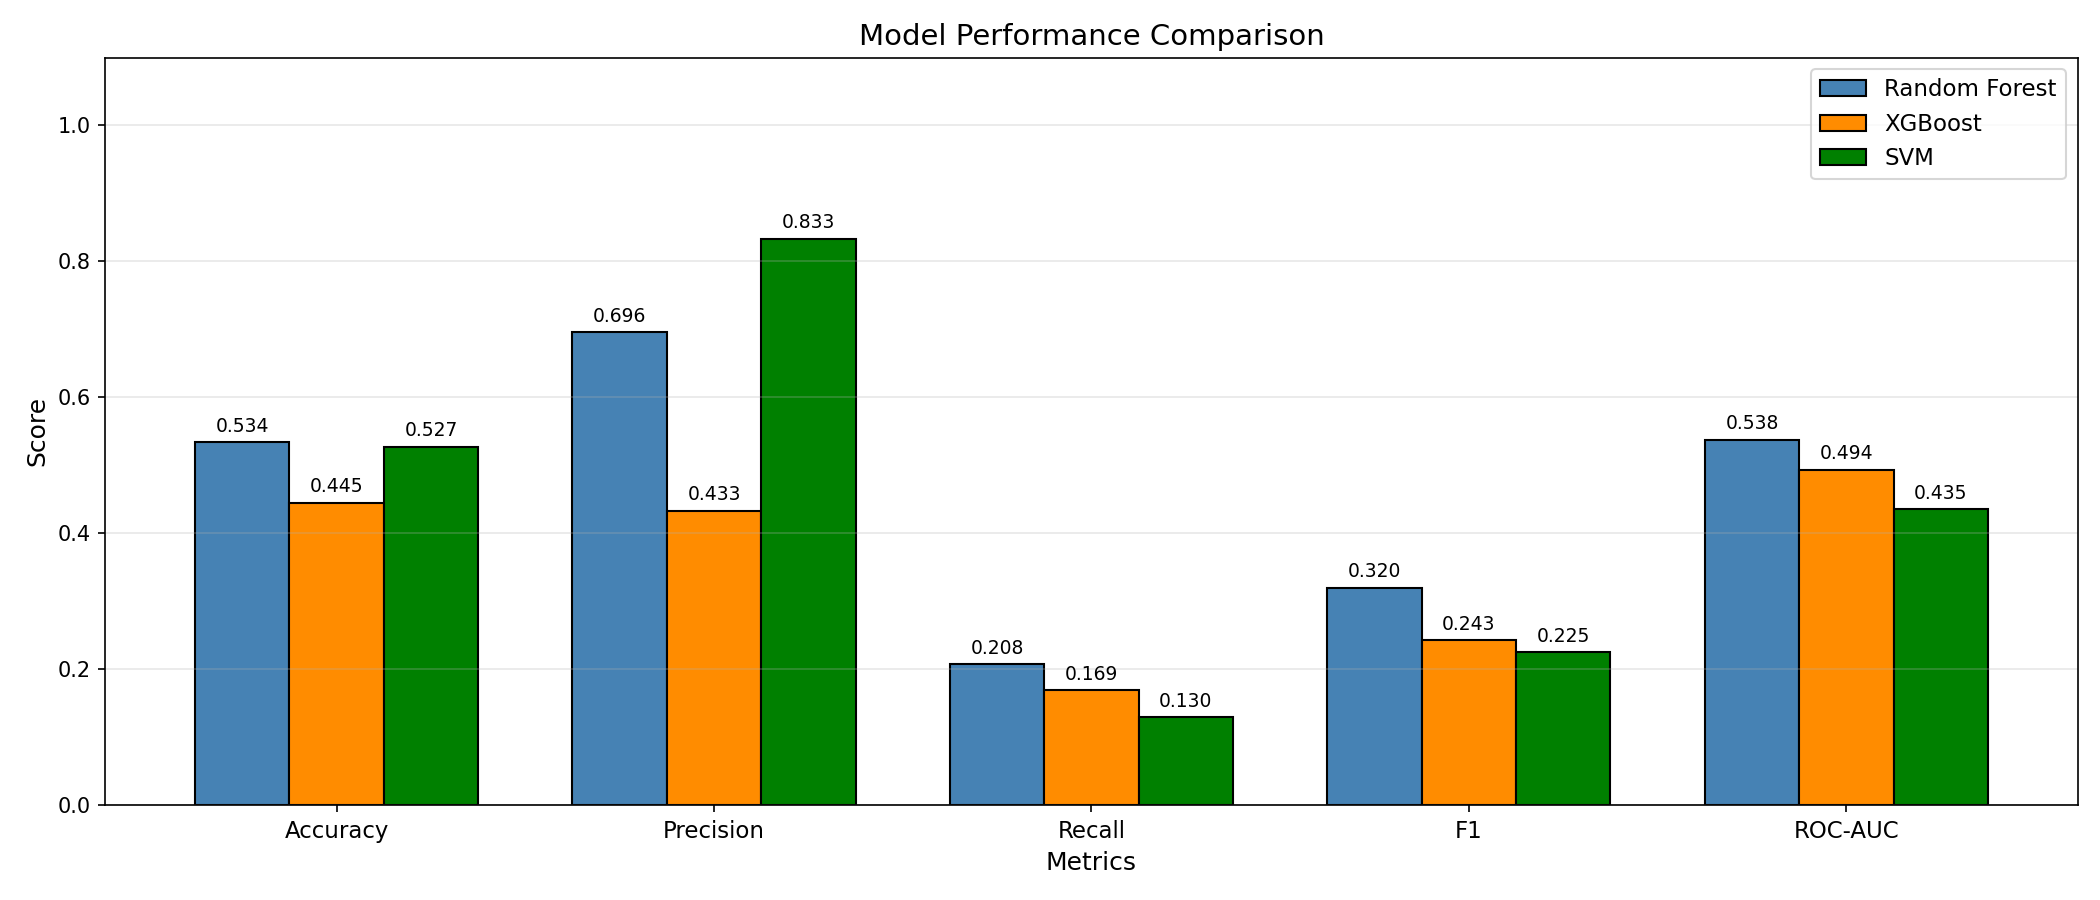
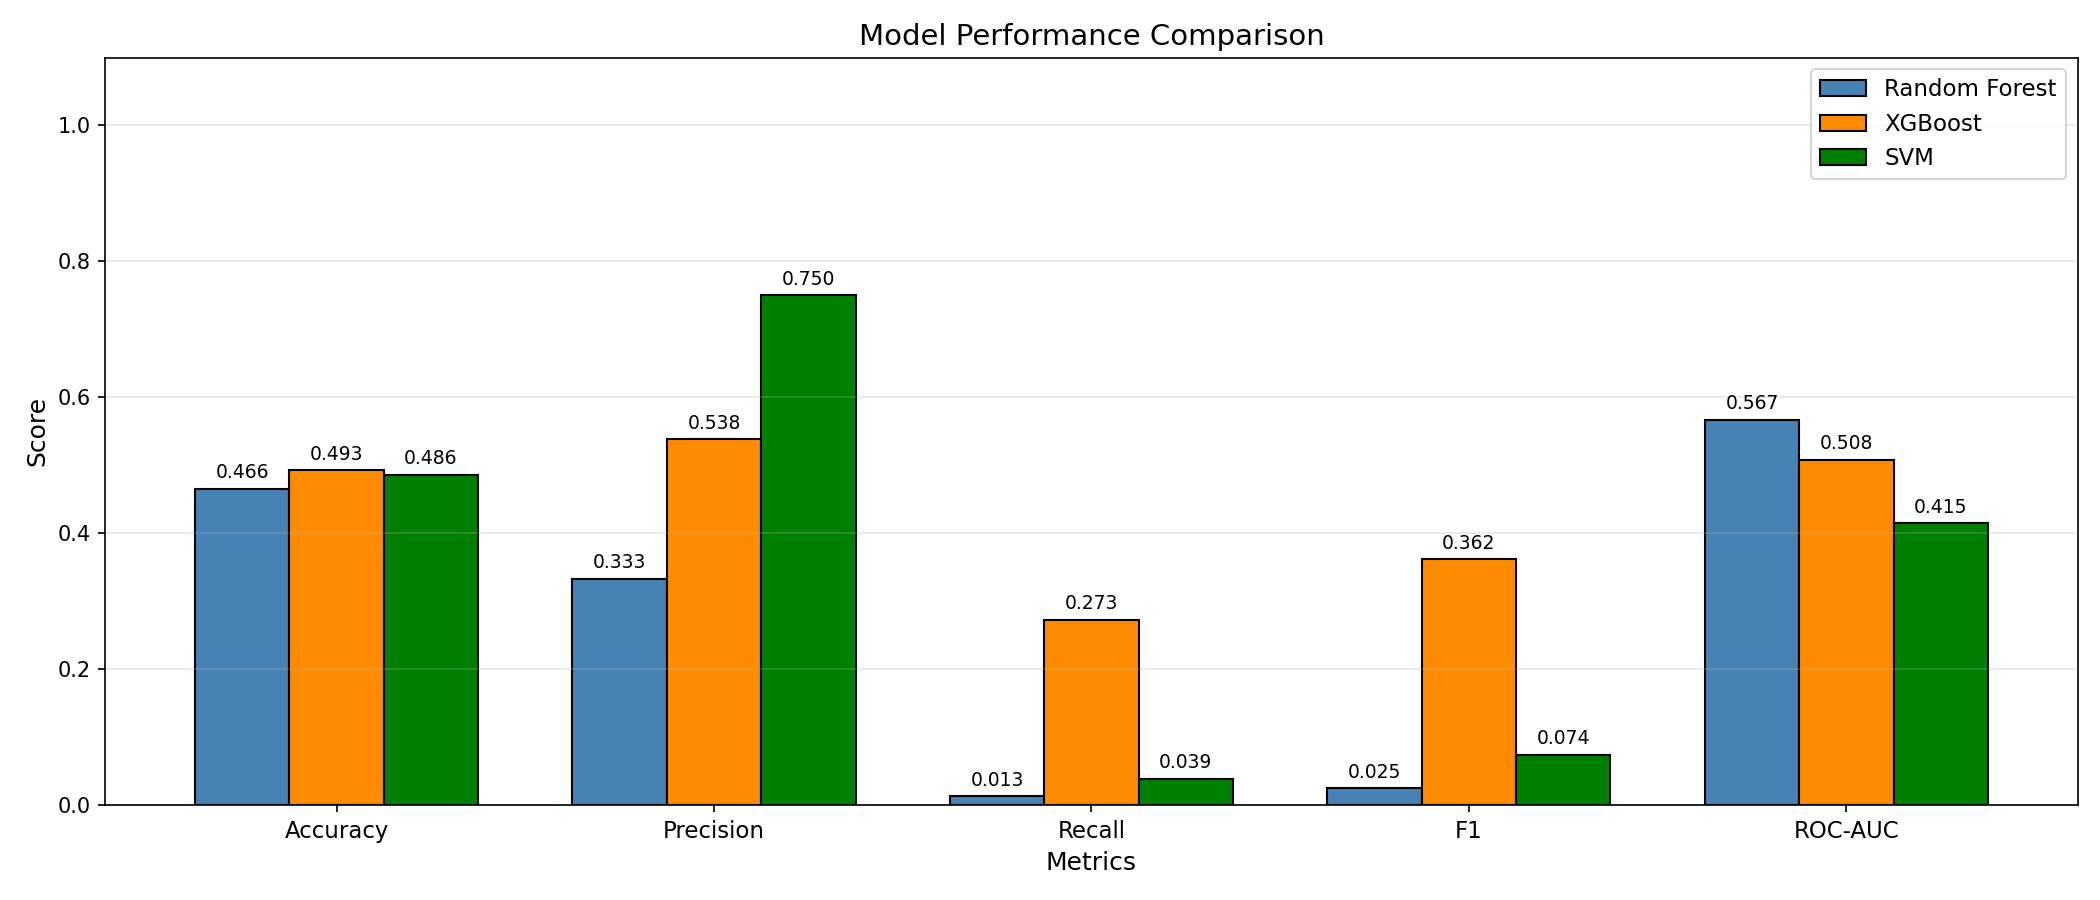
fucked

diff --git a/stock_ml_project/config.py b/stock_ml_project/config.py
@@ -61,32 +61,35 @@ PREDICTION_HORIZON = 1  # Next day prediction (binary: up/down)
 # Train/Test split ratio
 TEST_SIZE = 0.2  # 20% of data for testing
 
-# Random Forest hyperparameters - Conservative params for better accuracy
+# Random Forest hyperparameters - Less conservative with balanced weights
 RF_PARAMS = {
-    'n_estimators': 100,  # Conservative: Reduced from 200
-    'max_depth': 5,  # Conservative: Reduced from 8
-    'min_samples_split': 20,  # Conservative: Increased from 15
-    'min_samples_leaf': 10,  # Conservative: Increased from 5
+    'n_estimators': 200,  # More trees for better generalization
+    'max_depth': 10,  # Deeper trees to capture more patterns
+    'min_samples_split': 5,  # Less restrictive
+    'min_samples_leaf': 2,  # Less restrictive
+    'class_weight': 'balanced',  # Handle class imbalance
     'random_state': 42,
     'n_jobs': -1,  # Use all available CPU cores
 }
 
-# XGBoost hyperparameters - Conservative params for better accuracy
+# XGBoost hyperparameters - Less conservative with balanced weights
 XGB_PARAMS = {
-    'n_estimators': 100,  # Conservative: Reduced from 200
-    'max_depth': 4,  # Conservative: Reduced from 5
-    'learning_rate': 0.05,
+    'n_estimators': 200,  # More boosting rounds
+    'max_depth': 6,  # Deeper trees to capture more patterns
+    'learning_rate': 0.1,  # Higher learning rate
     'subsample': 0.8,
     'colsample_bytree': 0.8,
+    'scale_pos_weight': 1,  # Balanced classes
     'eval_metric': 'logloss',
     'random_state': 42
 }
 
-# SVM hyperparameters
+# SVM hyperparameters - Less conservative with balanced weights
 SVM_PARAMS = {
     'kernel': 'rbf',
-    'C': 1.0,
-    'gamma': 'scale',
+    'C': 10.0,  # Less regularization
+    'gamma': 'auto',  # Different kernel sensitivity
+    'class_weight': 'balanced',  # Handle class imbalance
     'probability': True,
     'random_state': 42
 }
